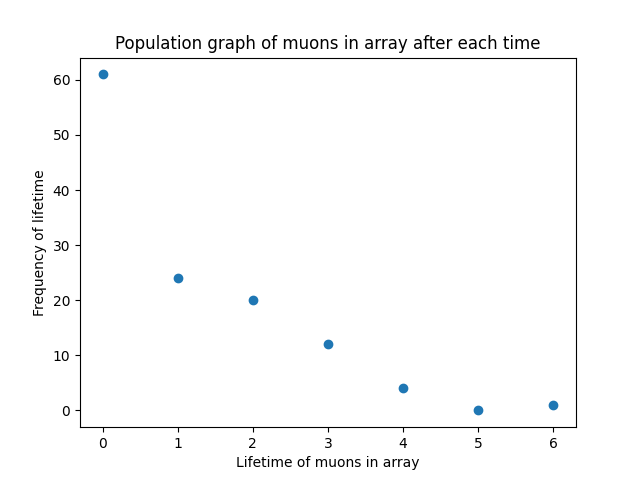
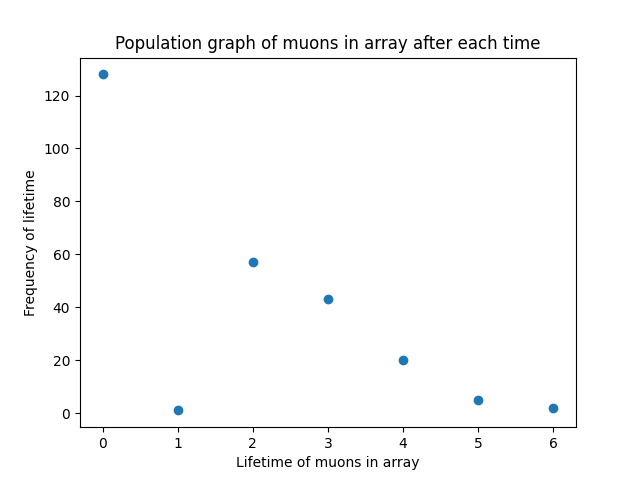
working on the fact that very few muons decay after time steps of 1

diff --git a/simulation.py b/simulation.py
@@ -8,7 +8,7 @@ from bethe_equation import *
 
 """Make sure that the simulation and run sim/plot methods are actually doing the same thing"""
 
-def run_simulation_and_plot(stppw, rho, t_max, array_dimension, efficiency):
+def run_simulation_and_plot(t_max, array_dimension, efficiency, rho, a_no, m_no, exc_energy):
 
     t = 0 #Initialise time
 
@@ -104,11 +104,23 @@ def run_simulation_and_plot(stppw, rho, t_max, array_dimension, efficiency):
                     detection_array.append(0)
             
             if muon1.in_matrix:
-                #Check to see whether the muon stops inside of the array
-                if check_stop(muon1.energy, stppw, rho, muon1.distance_travelled_in_array):
-                    muon1.velocity = np.array([0,0,0])
-                    muon1.in_motion = False
-                    print("Muon has stopped inside of the array.")
+                #Stoppping power calculation
+
+                de = abs(rho * bethe_equation(a_no, m_no, muon1.gamma, muon1.get_beta(), muon1.mass, exc_energy) * 5) #5 cm steps from scintillator to scintillator 
+                muon1.energy -= de #Reduces the energy of the muon in line with the Bethe equation
+                #print(muon1.energy)
+                muon1.update_gamma() #Update gamma given the new energy
+                muon1.update_velocity() #Update the velocity given the new gamma!
+
+                # if check_stop(muon1.energy, stppw, rho, muon1.distance_travelled_in_array):
+                #     muon1.velocity = np.array([0,0,0])
+                #     muon1.in_motion = False
+                #     #print("Muon has stopped inside of the array.")
+
+            muon1.position = np.add(muon1.position, muon1.velocity)
+            muon1.position = np.rint(muon1.position).astype(int)
+            # if not muon1.velocity.all(0) and muon1.in_matrix:
+            #     muon1.distance_travelled_in_array += 1
 
             muon1.position = np.add(muon1.position, muon1.velocity)
             muon1.position = np.rint(muon1.position).astype(int)
@@ -118,15 +130,15 @@ def run_simulation_and_plot(stppw, rho, t_max, array_dimension, efficiency):
 
         elif not muon1.in_motion and not muon1.decayed and muon1.in_matrix:
             #Check to see whether the muon, having stopped in the array, decays
+            decay_probability = 1 - np.exp(-muon1.age/muon1.lifetime)
             muon1.age += 1 #Lifetime after stopping
-            exponent = np.exp(-muon1.age/muon1.lifetime)
 
             chance_decay = np.random.random()
 
-            if chance_decay >= exponent:
+            if chance_decay < decay_probability:
                 #Check against a random variable to see whether decay has occurred
                 muon1.decayed = True
-                print("Muon has decayed")
+                #print("Muon has decayed")
                 matrix[x, :, z] += 1
                 if detection_status == 0:
                     detection_array.append(1)
@@ -307,11 +319,11 @@ def run_simulation_and_return_age(t_max, array_dimension, efficiency, rho, a_no,
             if muon1.in_matrix:
                 #Stoppping power calculation
 
-                de = abs(rho * bethe_equation(a_no, m_no, muon1.gamma, exc_energy) * 5) #5 cm steps from scintillator to scintillator 
+                de = abs(rho * bethe_equation(a_no, m_no, muon1.gamma, muon1.get_beta(), muon1.mass, exc_energy) * 5) #5 cm steps from scintillator to scintillator 
                 muon1.energy -= de #Reduces the energy of the muon in line with the Bethe equation
                 #print(muon1.energy)
-                muon1.update_gamma()
-                #muon1.update_velocity()
+                muon1.update_gamma() #Update gamma given the new energy
+                muon1.update_velocity() #Update the velocity given the new gamma!
 
                 # if check_stop(muon1.energy, stppw, rho, muon1.distance_travelled_in_array):
                 #     muon1.velocity = np.array([0,0,0])
@@ -326,12 +338,12 @@ def run_simulation_and_return_age(t_max, array_dimension, efficiency, rho, a_no,
 
         elif not muon1.in_motion and not muon1.decayed and muon1.in_matrix:
             #Check to see whether the muon, having stopped in the array, decays
+            decay_probability = 1 - np.exp(-muon1.age/muon1.lifetime)
             muon1.age += 1 #Lifetime after stopping
-            exponent = np.exp(-muon1.age/muon1.lifetime)
 
             chance_decay = np.random.random()
 
-            if chance_decay >= exponent:
+            if chance_decay < decay_probability:
                 #Check against a random variable to see whether decay has occurred
                 muon1.decayed = True
                 #print("Muon has decayed")

diff --git a/muon.py b/muon.py
@@ -7,13 +7,19 @@ class Muon:
 
     def __init__(self, array_dim):
         self.array_dimension = array_dim
+        self.mass = 206 * 0.511 #Muon mass in MeV
+        self.max_angle_deg = 45 #Maximal zenith angle of the muons in units of degrees
+
+        #First, generate energy using distribution. Use this to generate gamma. This, in turn, can be used to compute the velocity in natural units
+        self.energy = self.generate_energy() #Energy in MeV
+        self.gamma = self.get_gamma()
         
         #Mean muon energy is 4GeV, meaning v is about c
         #Set c = 1
         self.velocity = self.generate_velocity(1) #Returns velocity array 
         self.position = self.generate_position()
 
-        self.mass = 206 * 0.511 #Muon mass in MeV
+        
 
         #Start the simulation with the muon inside of the matrix at t = 0, not decayed, and in motion.
         self.in_matrix = True #Is the muon still inside of the scintillating array?
@@ -21,11 +27,8 @@ class Muon:
         self.decayed = False #Has the muon decayed?
 
         self.distance_travelled_in_array = 1 #At beginning of simulation, all muons have already entered the array and hence travelled 1 block
-        self.energy = self.generate_energy() #Energy in MeV
 
-        self.gamma = self.get_gamma()
-
-        self.lifetime = 2.2
+        self.lifetime = 2.2 #Characteristic decay time
         self.age = 0
 
 
@@ -114,18 +117,18 @@ class Muon:
     def get_gamma(self):
         
         e = self.energy #Energy in MeV
-        m = 206 * 0.511 #Muon Mass in MeV
+        m = self.mass #Muon Mass in MeV
         gamma = e / m
 
         return gamma
 
     def update_gamma(self):
-        if self.energy > 105:
+        if self.energy > self.mass:
             e = self.energy #Energy in MeV
-            m = 206 * 0.511 # Muon Mass in MeV
+            m = self.mass # Muon Mass in MeV
             gamma = e / m
         
-        elif self.energy <= 105:
+        elif self.energy <= self.mass:
             #Ensure that gamma never less than 1
             #Make the muon stationary
             self.velocity = np.array([0,0,0])
@@ -150,7 +153,7 @@ class Muon:
             c2 = (np.cos(theta_random))**2
             chance = np.random.random()
             
-            if chance < c2 and theta_random < 45/180 * np.pi: #reject anything above 45 degrees, as this is when cos^2 drops to 1/4
+            if chance < c2 and theta_random < self.max_angle_deg/180 * np.pi: #reject anything above 45 degrees, as this is when cos^2 drops to 1/4
                 theta = theta_random
                 ready = True #we are ready to exit
 
@@ -179,4 +182,23 @@ class Muon:
 
         velocity = np.array([v_x, v_y, v_z])
 
+        gamma = self.gamma
+        beta = beta = np.sqrt(1-1/gamma**2)
+
+        #c=1 so use beta to find overall value of velocity
+        velocity = np.multiply(velocity, beta)
+
         return velocity
+
+    def update_velocity(self):
+        gamma = self.gamma
+        beta = np.sqrt(1-1/gamma**2)
+
+        #Velocity init
+        self.velocity = np.multiply(self.velocity, beta)
+
+    def get_beta(self):
+        gamma = self.gamma
+        beta = np.sqrt(1 - 1/gamma**2)
+
+        return beta

diff --git a/bethe_equation.py b/bethe_equation.py
@@ -4,15 +4,14 @@ kappa = 0.3 #Coefficient of Bethe Equation
 m_e = 0.511 #mass of electron
 M = 206 * m_e #Mass of muon
 
-def bethe_equation(atomic_no, mass_no, gamma, excitation_energy):
-    """Computes explicit form of the Bethe Equation using natural units and assumption that beta = 1"""
+def bethe_equation(atomic_no, mass_no, gamma, beta, muon_mass, excitation_energy):
+    """Computes explicit form of the Bethe Equation using natural units"""
 
-    W_max = (2 * m_e * gamma ** 2) / (1 + (2*gamma*m_e/M) + (m_e/M)**2)
+    W_max = (2 * m_e * gamma ** 2 * beta**2) / (1 + (2*gamma*m_e/muon_mass) + (m_e/muon_mass)**2)
 
-    arg = 2*m_e*gamma**2*W_max/excitation_energy**2
+    arg = 2 * m_e * gamma**2 * beta**2 * W_max/excitation_energy**2
 
-    bethe = kappa * atomic_no/mass_no * (1/2 * np.log(abs(arg)) - 1)
+    bethe = kappa * atomic_no/mass_no * (1/2 * np.log(abs(arg)) - beta**2)
 
     return bethe
 
-#print(bethe_equation(29,63,38,3))

diff --git a/lifetime_processing.py b/lifetime_processing.py
@@ -28,18 +28,18 @@ def graph_ages(ages):
     for x in lifetimes:
         frequencies[x] += 1
 
-    frequencies[0] = len(lifetimes)
+    frequencies[0] = len(lifetimes) #Length of lifetimes array is the number of muons which have been stopped inside of the array
 
-    p = np.polyfit(values, np.log(frequencies), 1)
+    #p = np.polyfit(values, np.log(frequencies), 1)
 
-    best_fit_freq = []
+    #best_fit_freq = []
 
-    for value in values:
-        i = np.exp(p[1] + p[0]*value)
-        best_fit_freq.append(i)
+    # for value in values:
+    #     i = np.exp(p[1] + p[0]*value)
+    #     best_fit_freq.append(i)
 
     plt.scatter(values, frequencies)
-    plt.plot(values, best_fit_freq)
+    #plt.plot(values, best_fit_freq)
     plt.title('Population graph of muons in array after each time')
     plt.xlabel('Lifetime of muons in array')
     plt.ylabel('Frequency of lifetime')

diff --git a/main.py b/main.py
@@ -45,7 +45,7 @@ print(f"{percentage_stopped(ages):.2f} % of muons stopped in the array") # print
 graph_ages(ages)
 
 #Nice to have a graph
-# run_simulation_and_plot(copper_stopping_power, copper_rho, t_max, array_dimension, efficiency)
+#run_simulation_and_plot(t_max, array_dimension, efficiency, copper_rho, copper_atomic_number, copper_atomic_mass, excitation_energy)
 
 
 

diff --git a/Numerical Integration/numerical integration test.py b/Numerical Integration/numerical integration test.py
@@ -11,3 +11,7 @@ res, err = quad(f, -2, 2)
 print("The numerical result is {:f} (+-{:g})"
     .format(res, err))
 
+def return1():
+    return 1
+
+print(return1())
